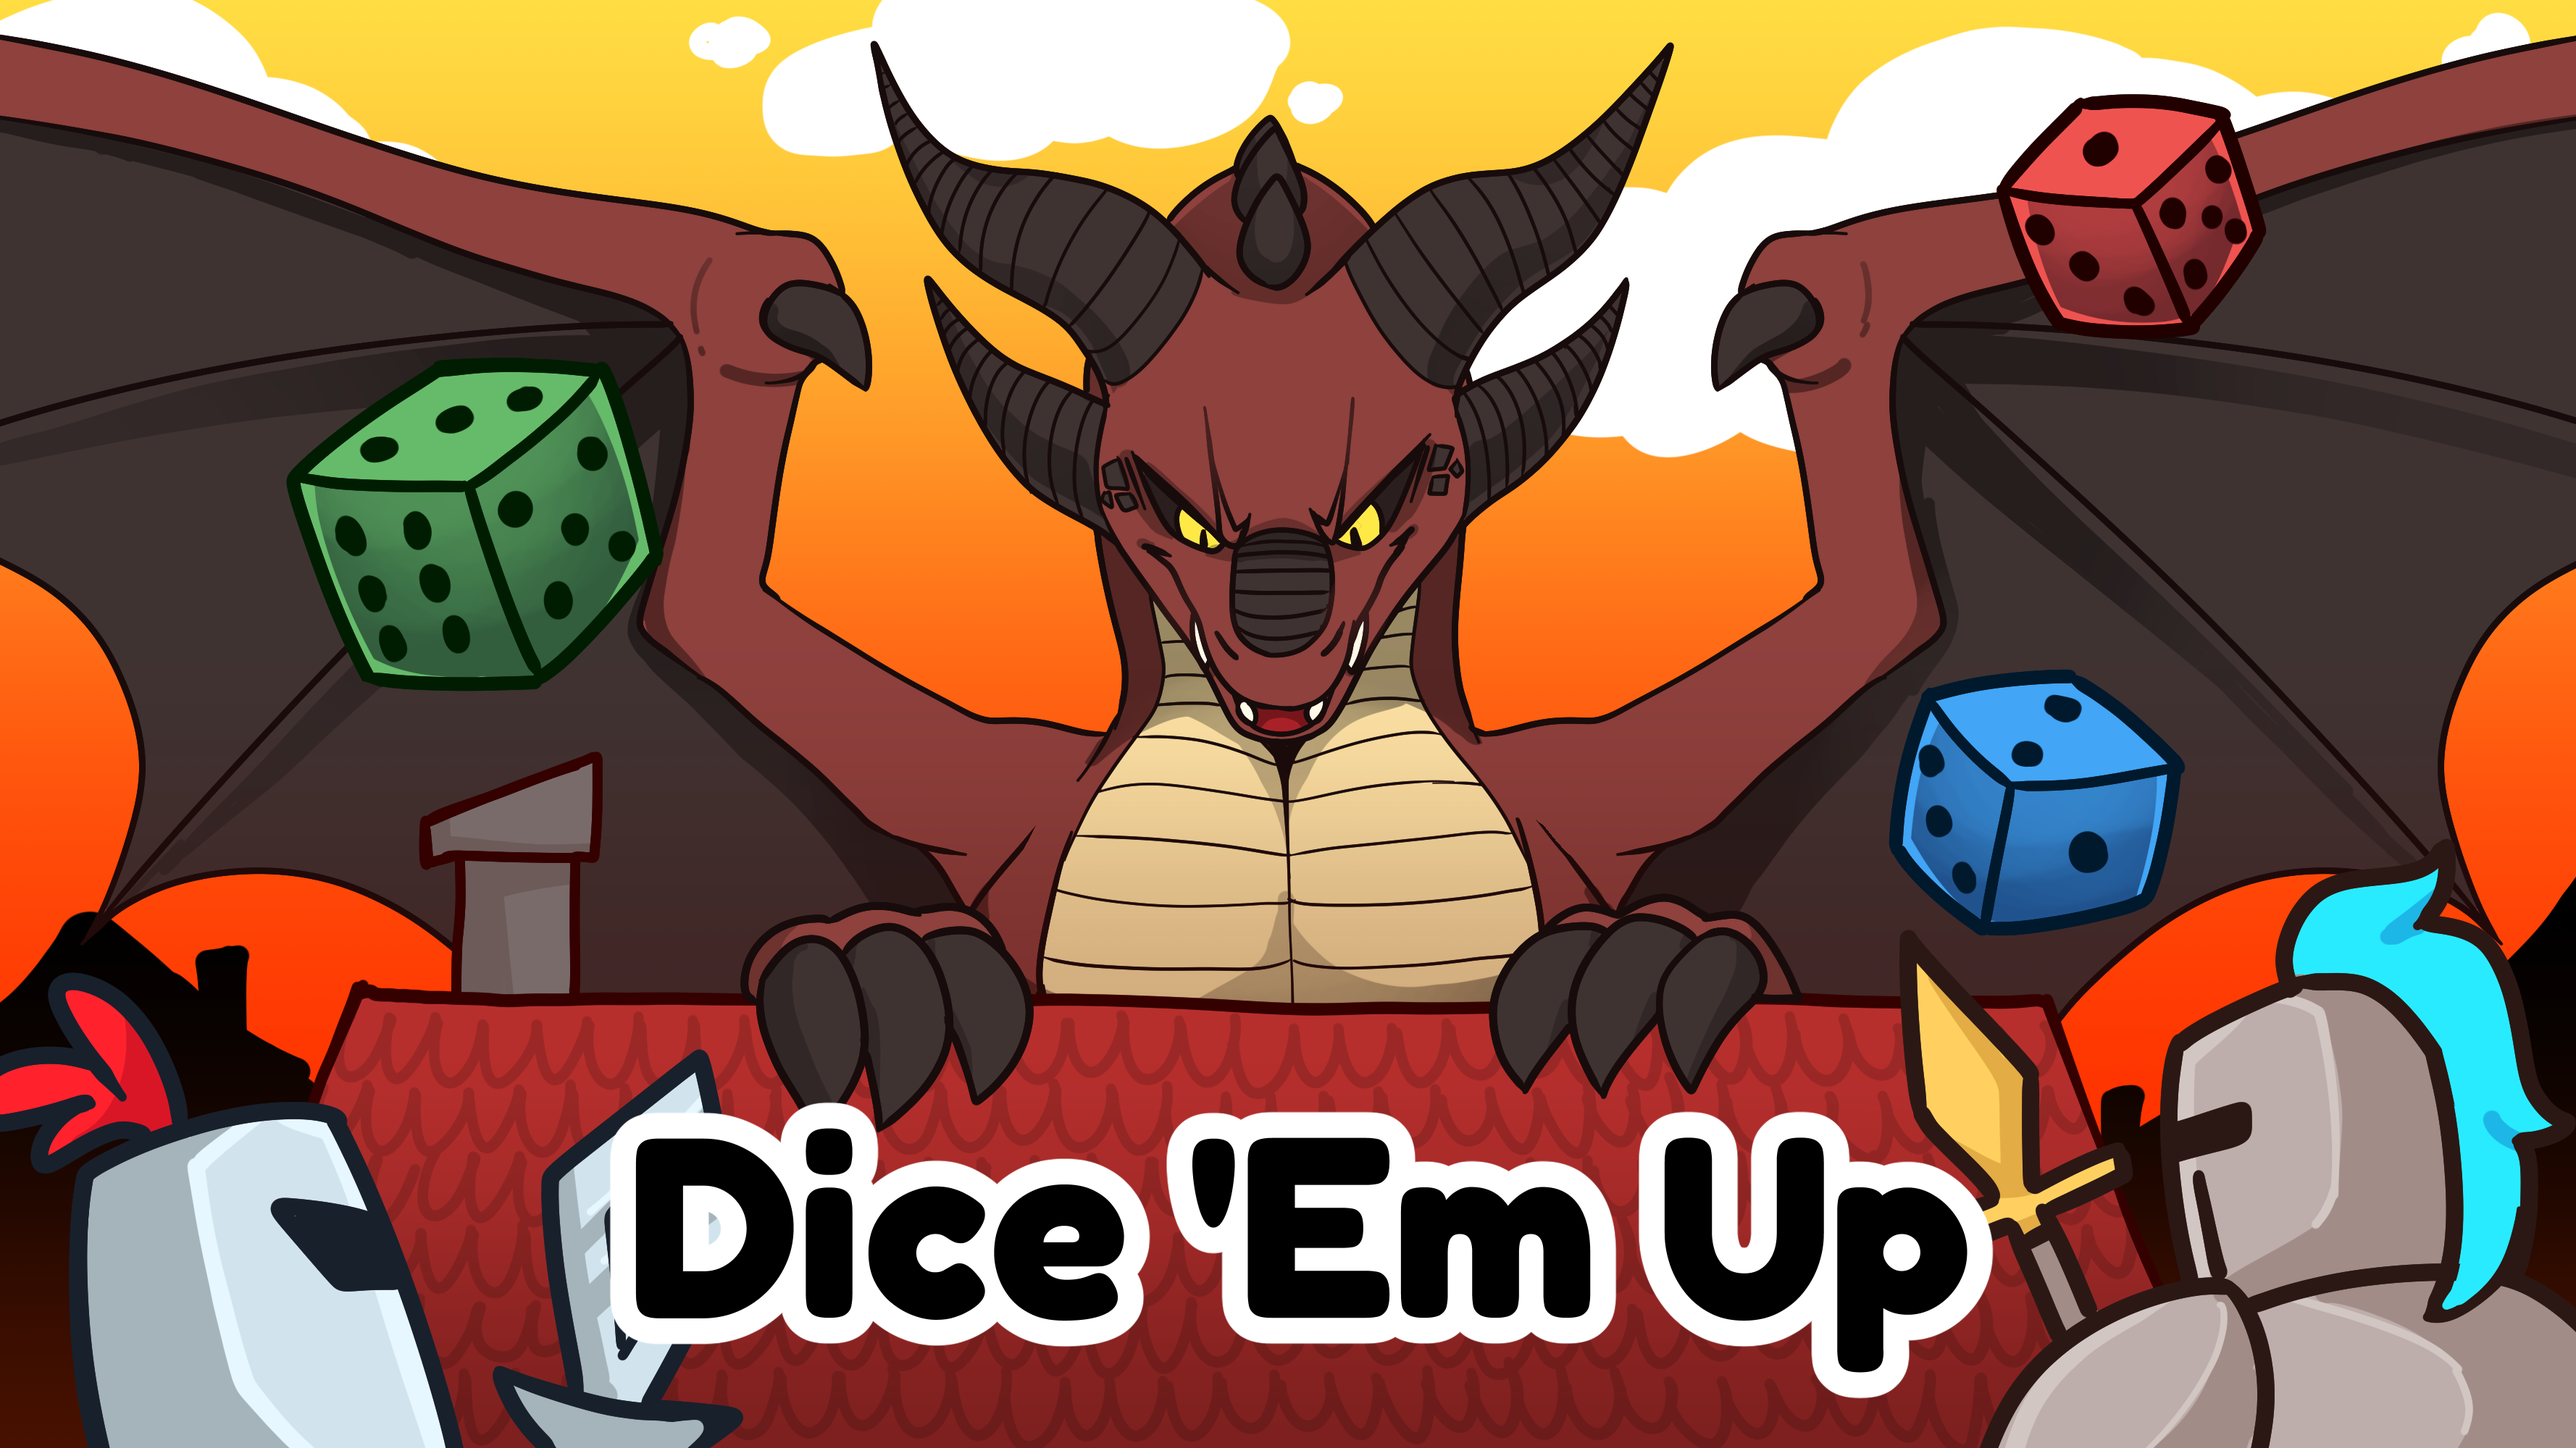
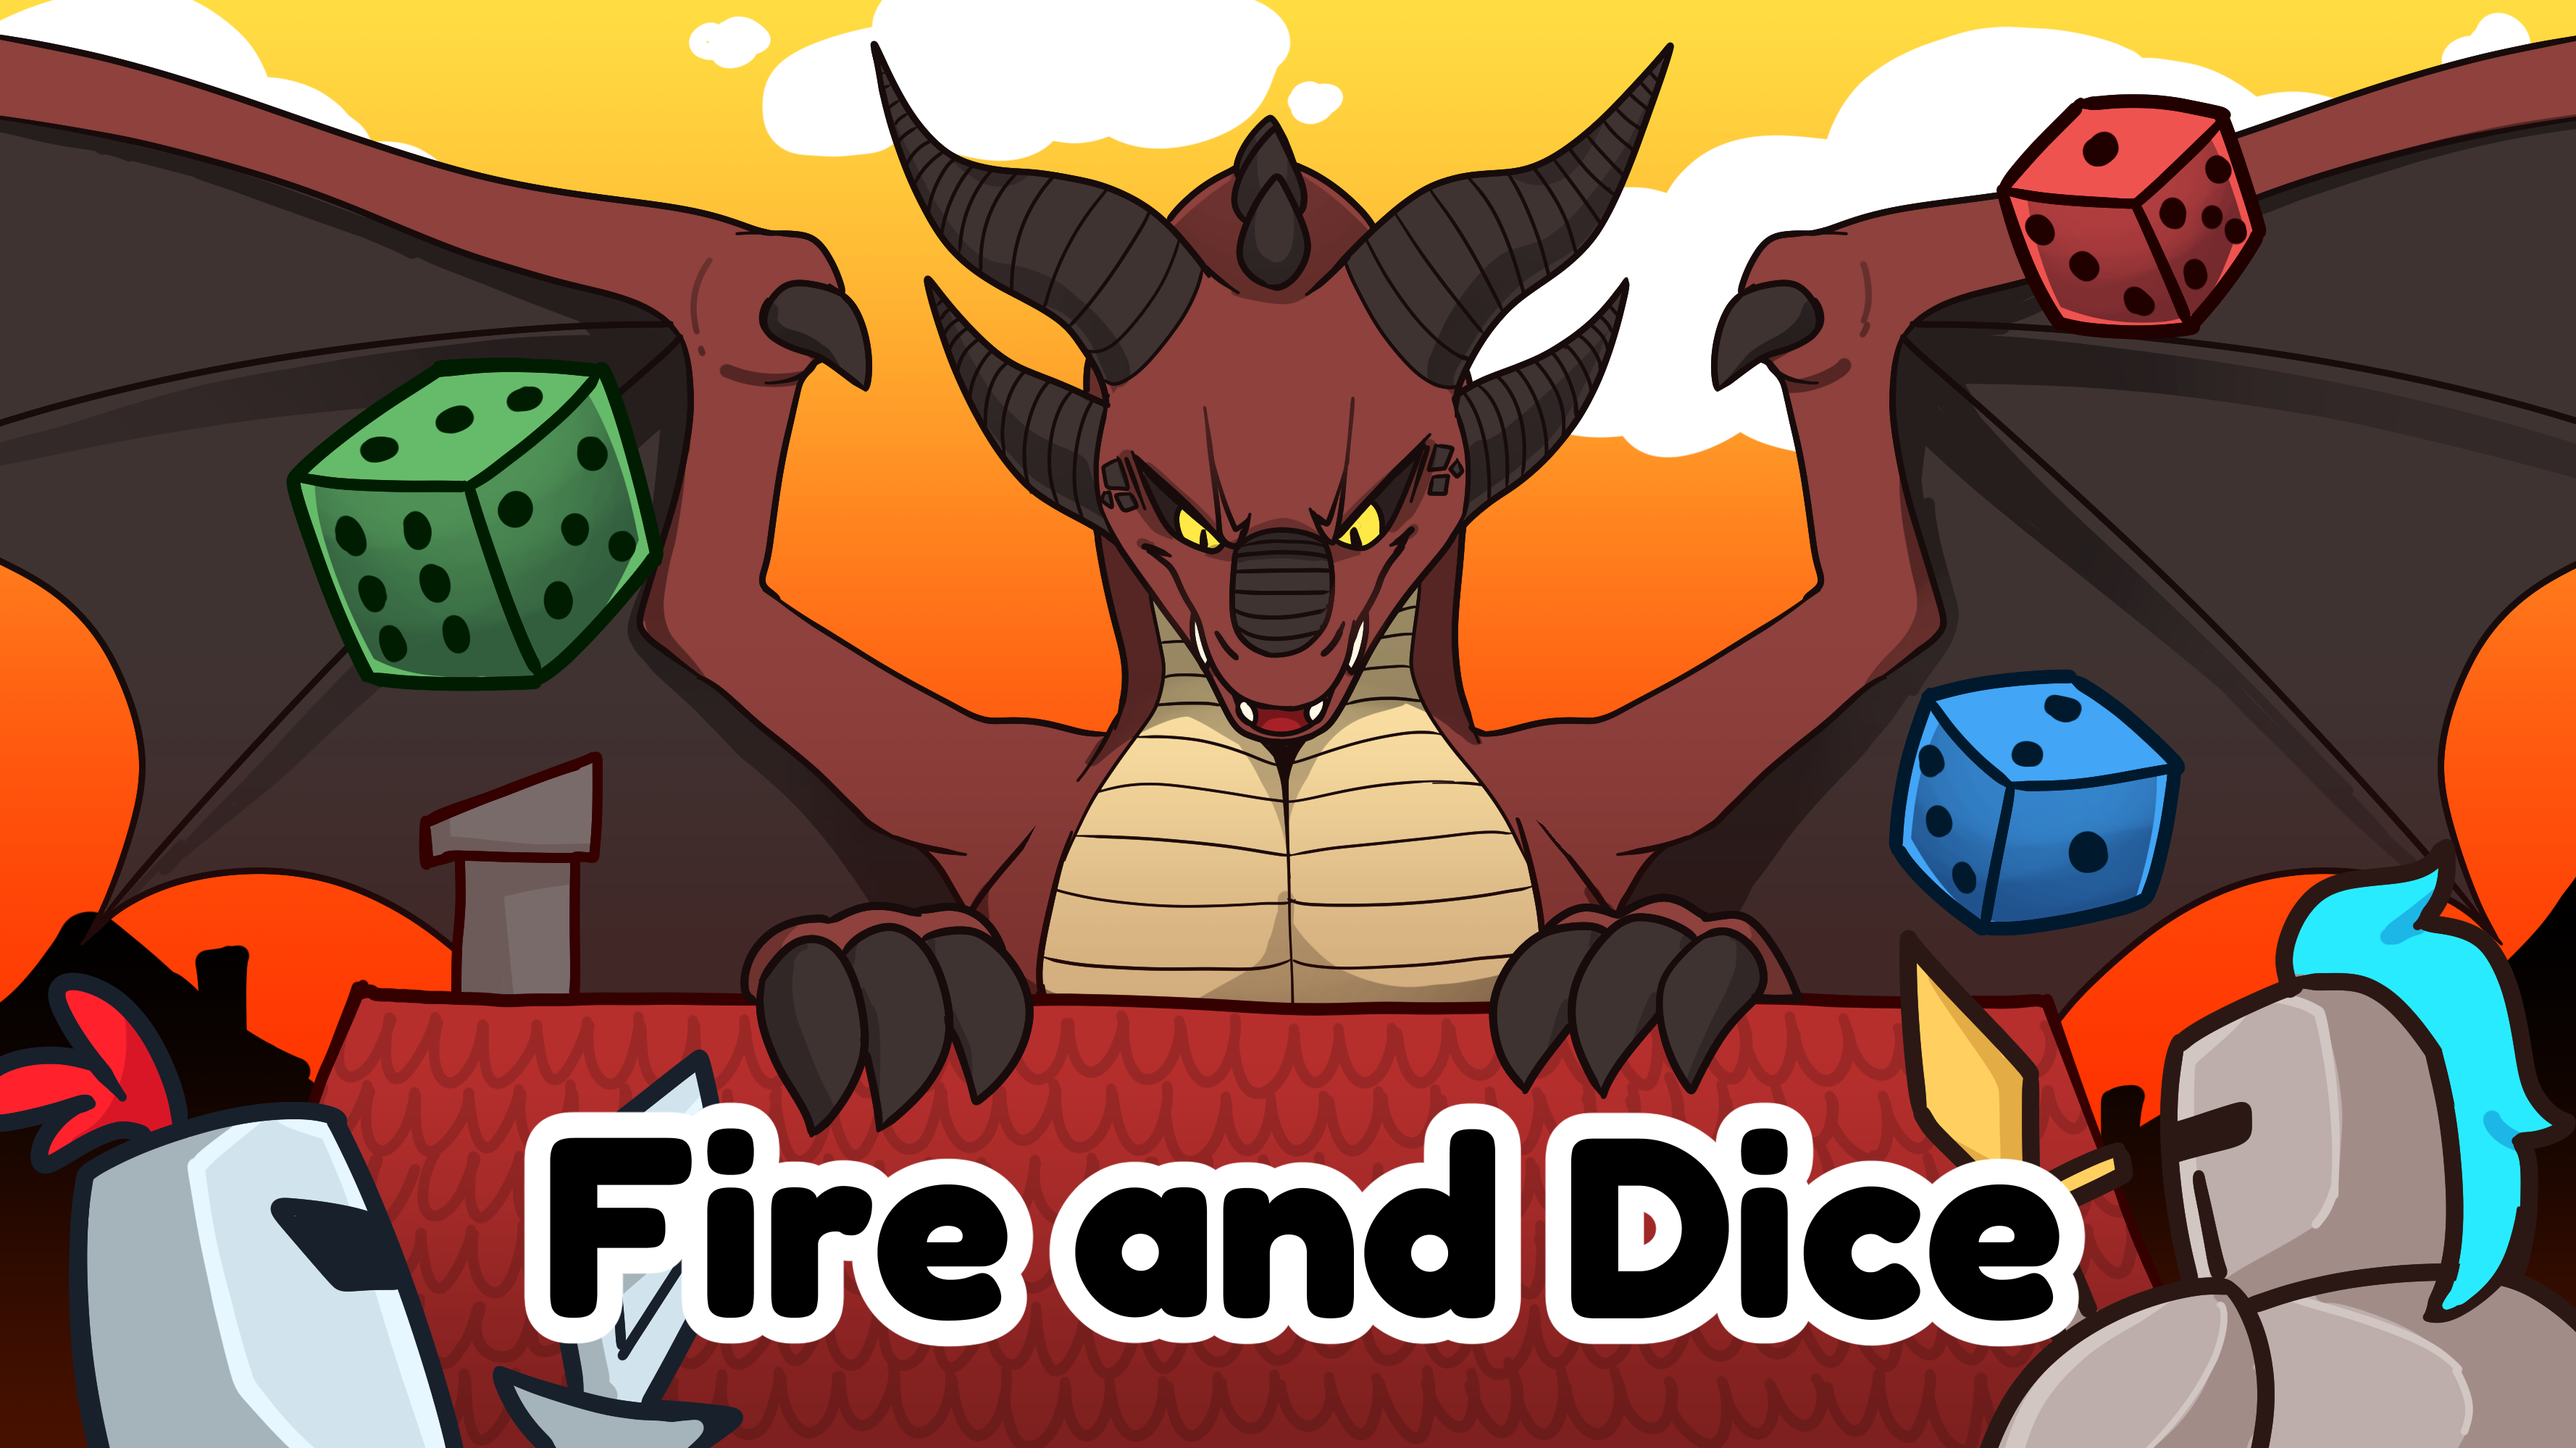
Change name of game.

Changed region(s): [[0.1873, 0.744, 0.8116, 0.961]]

diff --git a/src/scripts/scenes/OverworldScene.ts b/src/scripts/scenes/OverworldScene.ts
@@ -64,7 +64,7 @@ export class OverworldScene extends BaseScene {
 		this.graphics.fillStyle(0xEEEEDD, 1.0);
 
 
-		this.title = this.createText(this.CX, 0.43*this.H, 3*40, "#FA4", "Dice 'Em Up").setOrigin(0.5).setStroke("#732", 6);
+		this.title = this.createText(this.CX, 0.43*this.H, 3*40, "#FA4", "Fire and Dice").setOrigin(0.5).setStroke("#732", 6);
 		this.title.setPostPipeline(BendWaves2);
 		this.title.setVisible(false);
 

diff --git a/src/scripts/scenes/MenuScene.ts b/src/scripts/scenes/MenuScene.ts
@@ -95,7 +95,7 @@ export class MenuScene extends BaseScene {
 		this.hands.y += 50;
 
 
-		this.title = this.createText(this.CX, this.H-75, 60, "#000", "Dice 'Em Up");
+		this.title = this.createText(this.CX, this.H-75, 60, "#000", "Fire and Dice");
 		this.title.setOrigin(0.5, 1.0);
 		this.title.setStroke("#FFF", 8);
 		this.title.setVisible(false);
